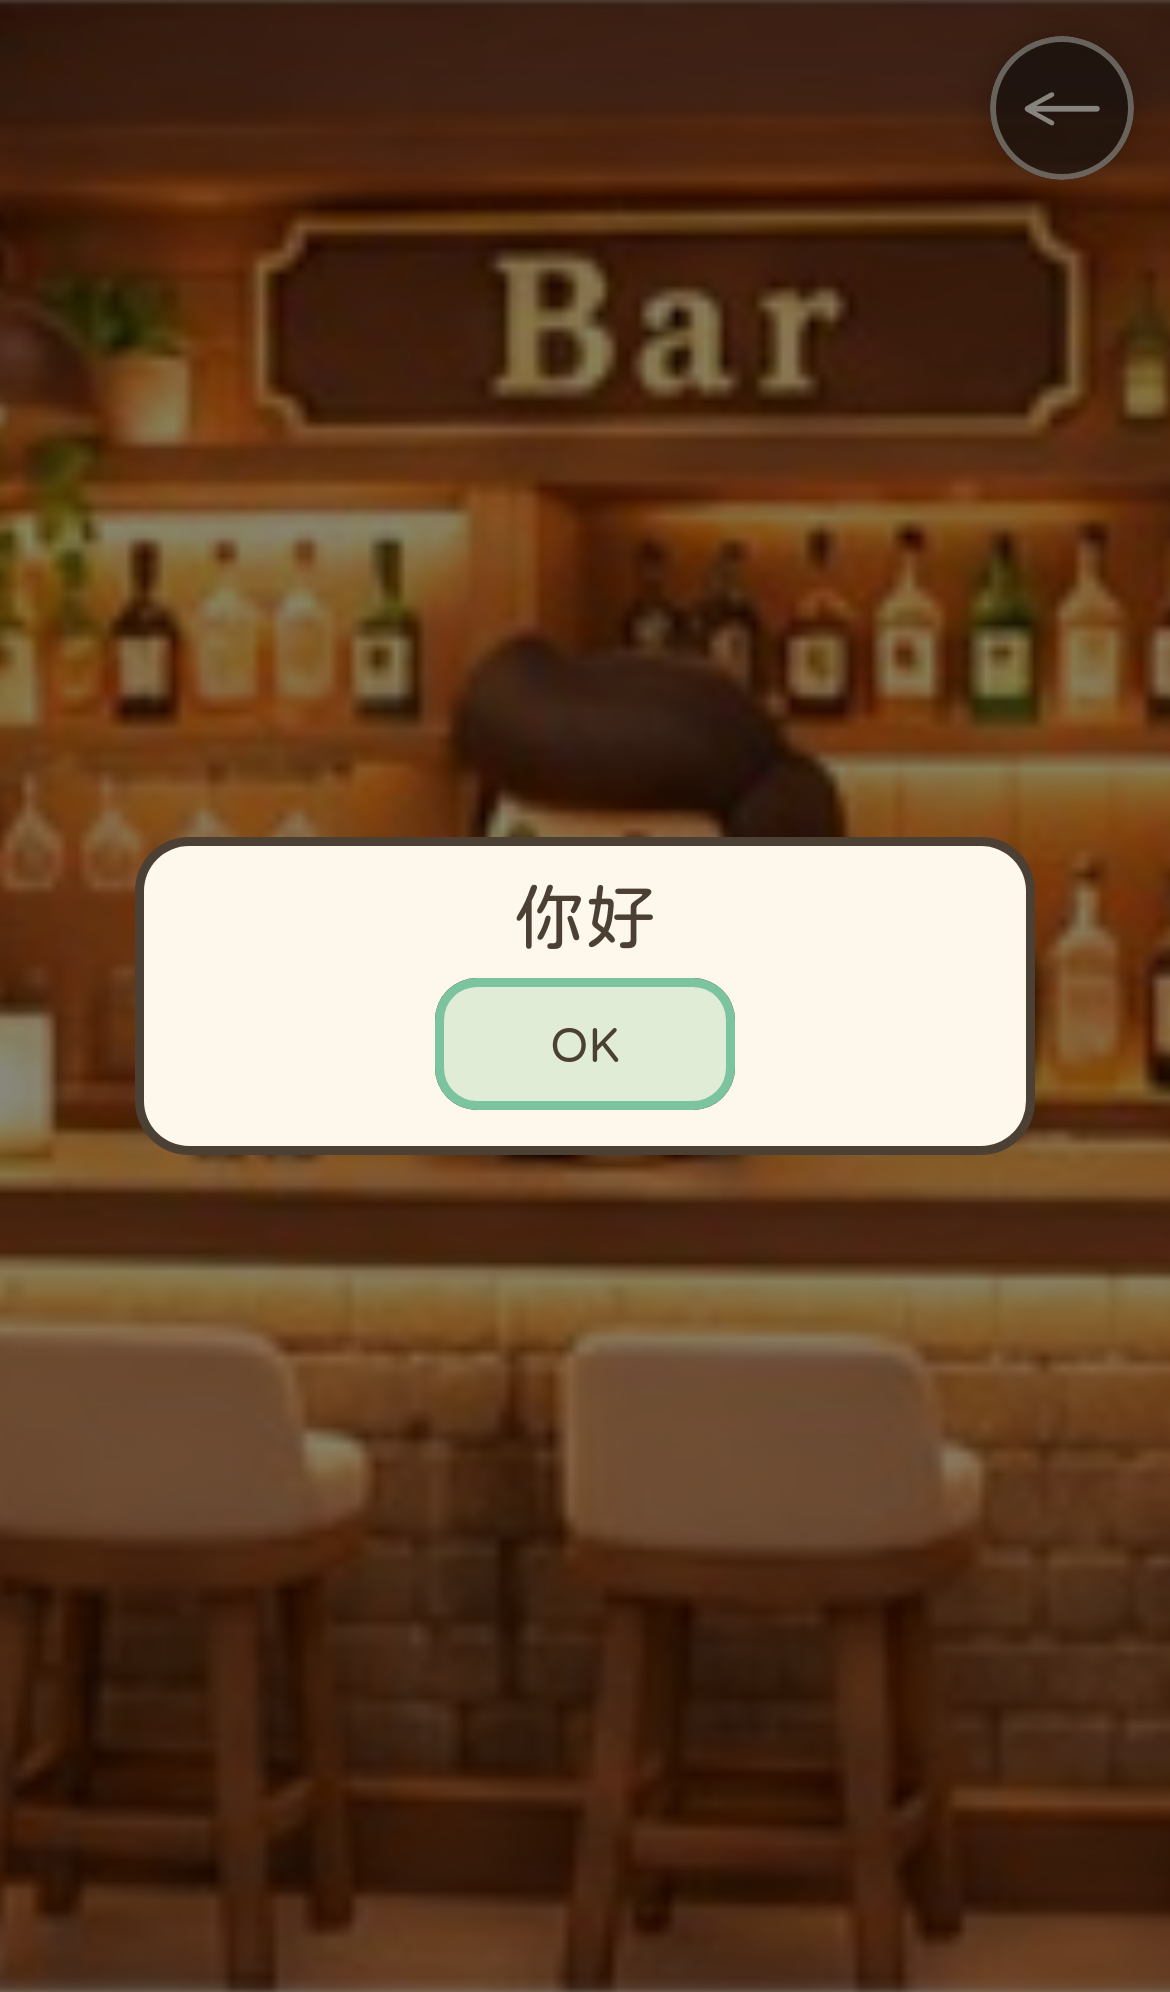
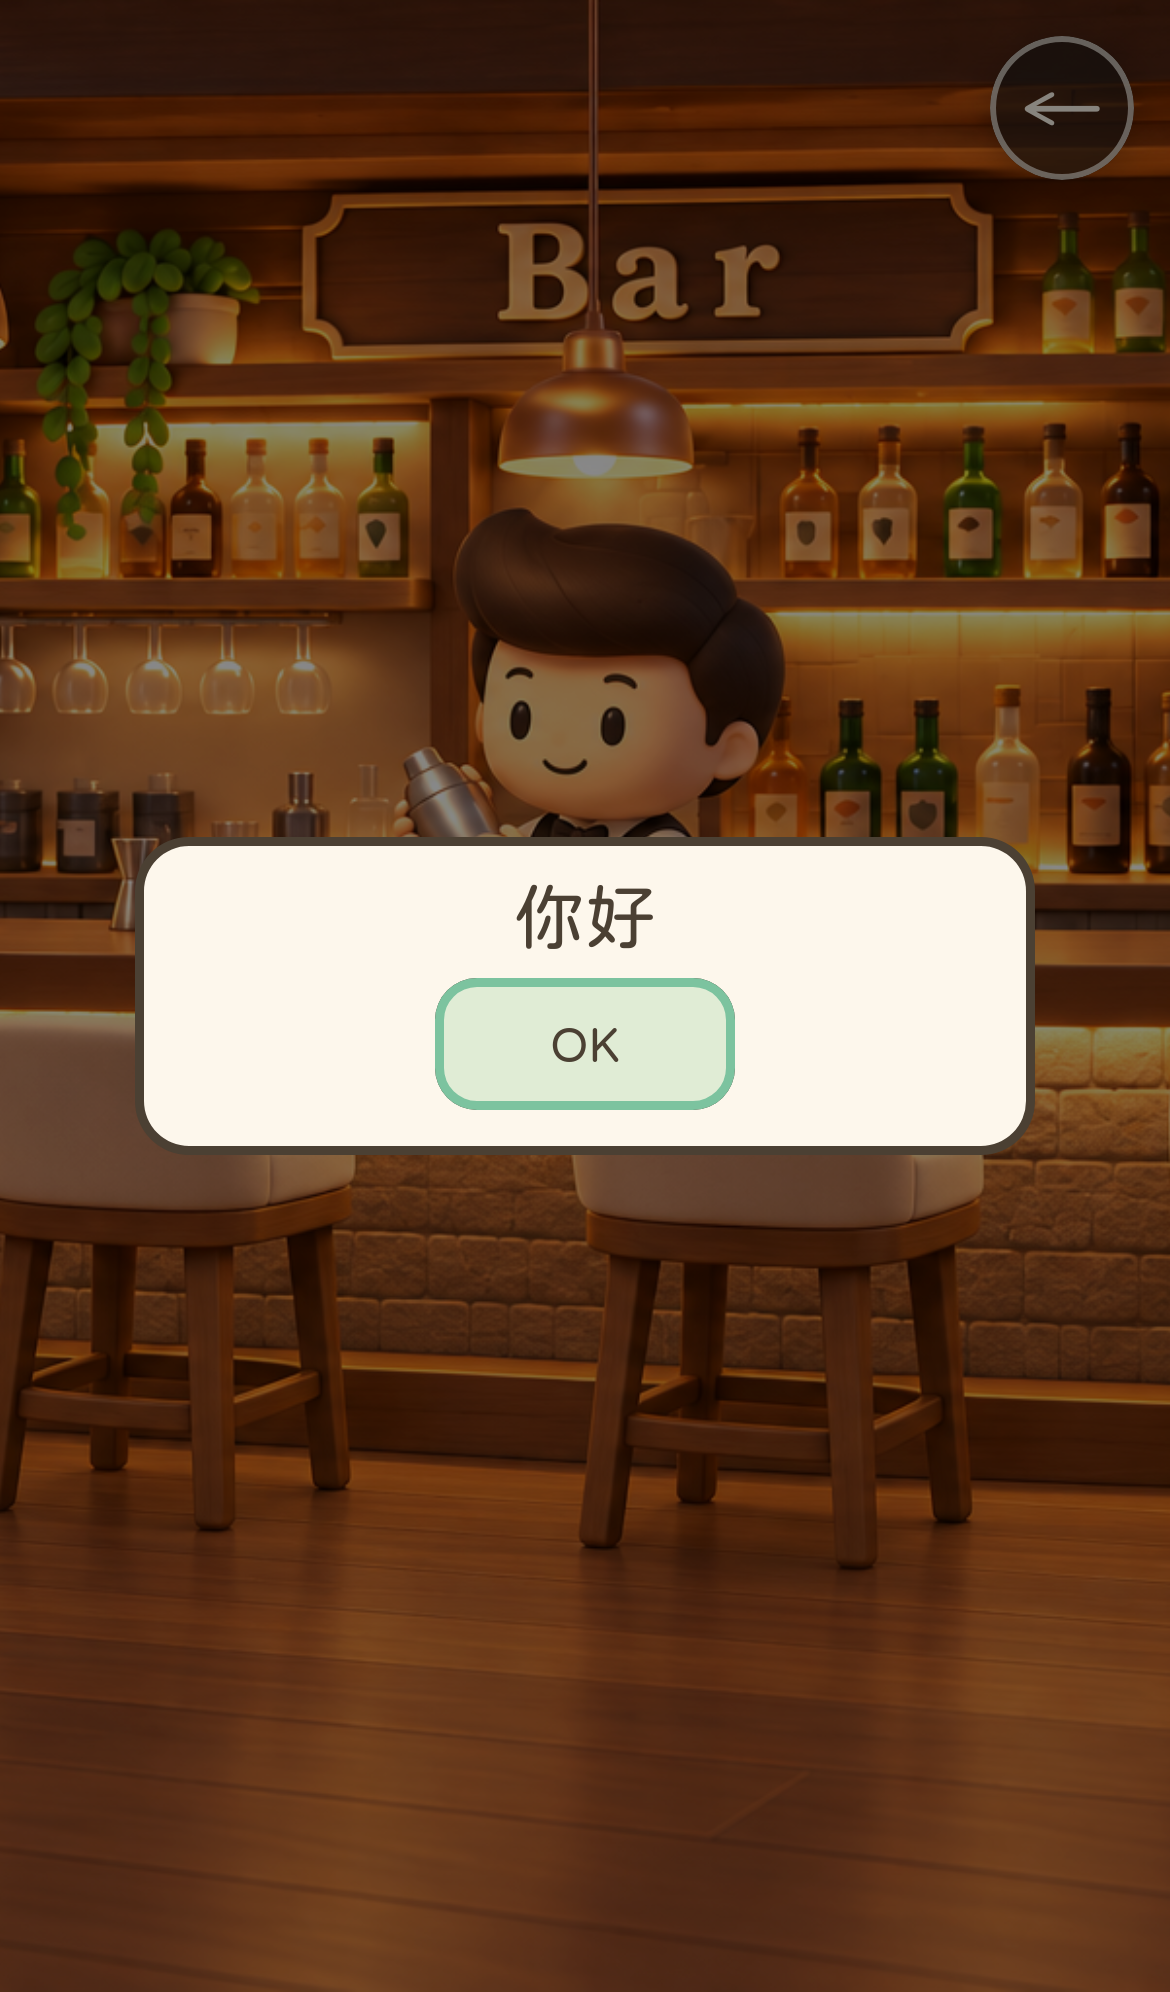
Replace blurry bar thumbnails with twelve high-resolution interiors (#36)

diff --git a/docs/visual/bar-interiors/gallery-v2.html b/docs/visual/bar-interiors/gallery-v2.html
@@ -1,0 +1,12 @@
+<!doctype html><meta charset="utf-8"><title>High-resolution bars</title><style>body{margin:0;background:#fdf7ec;font:15px system-ui;color:#4b4033}#gallery{display:grid;grid-template-columns:repeat(4,330px);gap:12px;padding:16px;width:max-content}figure{margin:0}img{display:block;width:330px;height:220px;object-fit:cover;border-radius:8px}figcaption{text-align:center;padding:6px}</style><div id="gallery"><figure><a href="../../../packages/client/public/images/bars/classic-warm-v2.webp"><img src="../../../packages/client/public/images/bars/classic-warm-v2.webp" alt="Wilson House"></a><figcaption>Wilson House</figcaption></figure>
+<figure><a href="../../../packages/client/public/images/bars/modern-gray-v2.webp"><img src="../../../packages/client/public/images/bars/modern-gray-v2.webp" alt="Engelbart House"></a><figcaption>Engelbart House</figcaption></figure>
+<figure><a href="../../../packages/client/public/images/bars/retro-brick-v2.webp"><img src="../../../packages/client/public/images/bars/retro-brick-v2.webp" alt="Moore House"></a><figcaption>Moore House</figcaption></figure>
+<figure><a href="../../../packages/client/public/images/bars/dark-gentleman-v2.webp"><img src="../../../packages/client/public/images/bars/dark-gentleman-v2.webp" alt="Berners-Lee House"></a><figcaption>Berners-Lee House</figcaption></figure>
+<figure><a href="../../../packages/client/public/images/bars/fresh-green-v2.webp"><img src="../../../packages/client/public/images/bars/fresh-green-v2.webp" alt="Hopper House"></a><figcaption>Hopper House</figcaption></figure>
+<figure><a href="../../../packages/client/public/images/bars/ocean-blue-v2.webp"><img src="../../../packages/client/public/images/bars/ocean-blue-v2.webp" alt="Dijkstra House"></a><figcaption>Dijkstra House</figcaption></figure>
+<figure><a href="../../../packages/client/public/images/bars/warm-ivory-v2.webp"><img src="../../../packages/client/public/images/bars/warm-ivory-v2.webp" alt="Huffman House"></a><figcaption>Huffman House</figcaption></figure>
+<figure><a href="../../../packages/client/public/images/bars/industrial-concrete-v2.webp"><img src="../../../packages/client/public/images/bars/industrial-concrete-v2.webp" alt="von Neumann House"></a><figcaption>von Neumann House</figcaption></figure>
+<figure><a href="../../../packages/client/public/images/bars/soft-pink-v2.webp"><img src="../../../packages/client/public/images/bars/soft-pink-v2.webp" alt="Turing House"></a><figcaption>Turing House</figcaption></figure>
+<figure><a href="../../../packages/client/public/images/bars/olive-green-v2.webp"><img src="../../../packages/client/public/images/bars/olive-green-v2.webp" alt="Hawkins House"></a><figcaption>Hawkins House</figcaption></figure>
+<figure><a href="../../../packages/client/public/images/bars/midnight-blue-v2.webp"><img src="../../../packages/client/public/images/bars/midnight-blue-v2.webp" alt="Cooper House"></a><figcaption>Cooper House</figcaption></figure>
+<figure><a href="../../../packages/client/public/images/bars/milk-tea-v2.webp"><img src="../../../packages/client/public/images/bars/milk-tea-v2.webp" alt="Shockley House"></a><figcaption>Shockley House</figcaption></figure></div>

diff --git a/packages/client/test/barInteriors.test.ts b/packages/client/test/barInteriors.test.ts
@@ -1,24 +1,37 @@
+import { readFileSync } from 'node:fs';
 import { describe, expect, it } from 'vitest';
-import { BAR_IMAGE, BAR_INTERIORS } from '../src/world/barInteriors.js';
+import { BAR_INTERIORS } from '../src/world/barInteriors.js';
 import { HOUSE_DATA } from '../src/world/buildingLayout.js';
 
+/** Read dimensions from the actual lossless WebP asset, not declared metadata. */
+function dimensions(bytes: Buffer): { width: number; height: number } {
+  expect(bytes.toString('ascii', 0, 4)).toBe('RIFF');
+  expect(bytes.toString('ascii', 8, 12)).toBe('WEBP');
+  for (let offset = 12; offset + 8 <= bytes.length;) {
+    const size = bytes.readUInt32LE(offset + 4);
+    if (bytes.toString('ascii', offset, offset + 4) === 'VP8L') {
+      expect(bytes[offset + 8]).toBe(0x2f);
+      const bits = bytes.readUInt32LE(offset + 9);
+      return { width: (bits & 0x3fff) + 1, height: ((bits >>> 14) & 0x3fff) + 1 };
+    }
+    offset += 8 + size + (size % 2);
+  }
+  throw new Error('Expected a native-resolution lossless WebP');
+}
+
 describe('bar interiors', () => {
-  it('assigns each current house a different reference panel in stable order', () => {
+  it('assigns each house a different standalone high-resolution image', () => {
     expect(BAR_INTERIORS.map(bar => bar.house)).toEqual(HOUSE_DATA.houses.map(h => h.name));
     expect(BAR_INTERIORS).toHaveLength(12);
-    expect(new Set(BAR_INTERIORS.map(bar => bar.viewBox)).size).toBe(12);
+    expect(new Set(BAR_INTERIORS.map(bar => bar.image)).size).toBe(12);
     expect(new Set(BAR_INTERIORS.map(bar => bar.style)).size).toBe(12);
-    expect(BAR_IMAGE).toBe('/images/bar-interiors-reference.jpg');
   });
-  it('keeps each image window inside the supplied image and excludes the sheet header', () => {
+  it('ships all twelve as full-size lossless images instead of thumbnail windows', () => {
     for (const bar of BAR_INTERIORS) {
-      const [x, y, width, height] = bar.viewBox.split(' ').map(Number);
-      expect(x!).toBeGreaterThanOrEqual(0);
-      expect(y!).toBeGreaterThan(40);
-      expect(width!).toBeGreaterThan(300);
-      expect(height!).toBeGreaterThan(200);
-      expect(x! + width!).toBeLessThanOrEqual(1280);
-      expect(y! + height!).toBeLessThanOrEqual(853);
+      const asset = readFileSync(new URL('../public' + bar.image, import.meta.url));
+      const size = dimensions(asset);
+      expect(size.width, bar.house).toBeGreaterThanOrEqual(1536);
+      expect(size.height, bar.house).toBeGreaterThanOrEqual(1024);
     }
   });
 });

diff --git a/packages/client/src/ui/barInterior.ts b/packages/client/src/ui/barInterior.ts
@@ -1,12 +1,11 @@
 import type { BuildingPlot } from '../world/buildingLayout.js';
-import { BAR_IMAGE, BAR_INTERIORS } from '../world/barInteriors.js';
+import { BAR_INTERIORS } from '../world/barInteriors.js';
 
 export class BarInterior {
   private readonly room = document.getElementById('bar-interior') as HTMLDialogElement;
   private readonly greeting = document.getElementById('bar-greeting') as HTMLDialogElement;
   private readonly scene = document.getElementById('bar-scene') as HTMLButtonElement;
-  private readonly picture = document.getElementById('bar-picture')!;
-  private readonly image = document.getElementById('bar-image')!;
+  private readonly picture = document.getElementById('bar-picture') as HTMLImageElement;
   private readonly exit = document.getElementById('bar-exit') as HTMLButtonElement;
   private readonly ok = document.getElementById('bar-ok') as HTMLButtonElement;
 
@@ -37,13 +36,9 @@ export class BarInterior {
     const bar = BAR_INTERIORS.find(item => item.house === house.name);
     if (!bar) return;
     this.room.setAttribute('aria-label', house.name + ' 的酒吧');
-    this.picture.setAttribute('viewBox', bar.viewBox);
-    const crop = document.getElementById('bar-crop-window')!;
-    const [x, y, width, height] = bar.viewBox.split(' ');
-    for (const [key, value] of Object.entries({ x, y, width, height })) crop.setAttribute(key, value!);
-    this.picture.setAttribute('aria-label', house.name + ' 的酒吧，' + bar.style);
-    // Fetch the shared image only when an interior is first entered.
-    this.image.setAttribute('href', BAR_IMAGE);
+    this.picture.alt = house.name + ' 的酒吧，' + bar.style;
+    // Load only the selected full-resolution asset, not a thumbnail sprite sheet.
+    this.picture.src = bar.image;
     this.handlers.onOpen();
     this.room.showModal();
     this.exit.focus({ preventScroll: true });

diff --git a/e2e/bar-interiors.spec.ts b/e2e/bar-interiors.spec.ts
@@ -20,7 +20,8 @@ for (const name of ['Wilson House', 'Shockley House']) test.describe('bar at ' +
     await expect(read).toBeVisible();
     expect((await enter.boundingBox())!.y).toBeGreaterThan((await read.boundingBox())!.y);
     const outside = await page.evaluate(() => window.__town!.position());
-    const loaded = page.waitForResponse(r => r.url().endsWith('/images/bar-interiors-reference.jpg'));
+    const expectedBar = BAR_INTERIORS.find(b => b.house === name)!;
+    const loaded = page.waitForResponse(r => r.url().endsWith(expectedBar.image));
     await enter.click();
     expect((await loaded).status()).toBe(200);
     const room = page.locator('#bar-interior');
@@ -32,8 +33,16 @@ for (const name of ['Wilson House', 'Shockley House']) test.describe('bar at ' +
     expect(full!.y).toBe(0);
     expect(full!.width).toBe(page.viewportSize()!.width);
     expect(full!.height).toBe(page.viewportSize()!.height);
-    await expect(page.locator('#bar-picture')).toHaveAttribute('preserveAspectRatio', 'xMidYMid slice');
-    await expect(page.locator('#bar-picture')).toHaveAttribute('viewBox', BAR_INTERIORS.find(b => b.house === name)!.viewBox);
+    const picture = page.locator('#bar-picture');
+    await expect(picture).toHaveAttribute('src', expectedBar.image);
+    await picture.evaluate(async el => { await (el as HTMLImageElement).decode(); });
+    const quality = await picture.evaluate(el => {
+      const image = el as HTMLImageElement;
+      return { width: image.naturalWidth, height: image.naturalHeight, fit: getComputedStyle(image).objectFit };
+    });
+    expect(quality.width).toBeGreaterThanOrEqual(1536);
+    expect(quality.height).toBeGreaterThanOrEqual(1024);
+    expect(quality.fit).toBe('cover');
     await page.keyboard.down('d');
     await page.waitForTimeout(200);
     await page.keyboard.up('d');

diff --git a/packages/client/src/world/barInteriors.ts b/packages/client/src/world/barInteriors.ts
@@ -5,14 +5,15 @@ const STYLES = [
   '清新綠植款', '海洋藍調款', '溫暖米白款', '工業水泥款',
   '粉彩柔和款', '橄欖綠款', '深藍夜色款', '奶茶木質款',
 ] as const;
-const COLUMNS = [[6, 312], [326, 312], [644, 312], [963, 311]] as const;
-const ROWS = [[44, 206], [298, 209], [556, 215]] as const;
+const IMAGES = [
+  'classic-warm', 'modern-gray', 'retro-brick', 'dark-gentleman',
+  'fresh-green', 'ocean-blue', 'warm-ivory', 'industrial-concrete',
+  'soft-pink', 'olive-green', 'midnight-blue', 'milk-tea',
+] as const;
 
-/** Display windows into the unchanged image supplied by the user. */
-export const BAR_INTERIORS = HOUSE_DATA.houses.map((house, index) => {
-  const [x, width] = COLUMNS[index % 4]!;
-  const [y, height] = ROWS[Math.floor(index / 4)]!;
-  return { house: house.name, style: STYLES[index]!, viewBox: `${x} ${y} ${width} ${height}` };
-});
-
-export const BAR_IMAGE = '/images/bar-interiors-reference.jpg';
+/** Each house uses an independently rendered full-resolution image. */
+export const BAR_INTERIORS = HOUSE_DATA.houses.map((house, index) => ({
+  house: house.name,
+  style: STYLES[index]!,
+  image: '/images/bars/' + IMAGES[index]! + '-v2.webp',
+}));

diff --git a/packages/client/index.html b/packages/client/index.html
@@ -74,10 +74,7 @@
         <button id="bar-exit" type="button" aria-label="返回戶外">←</button>
         <button id="bar-scene" type="button" aria-label="點擊酒吧" aria-haspopup="dialog"
           aria-controls="bar-greeting">
-          <svg id="bar-picture" role="img" xmlns="http://www.w3.org/2000/svg" preserveAspectRatio="xMidYMid slice">
-            <defs><clipPath id="bar-crop"><rect id="bar-crop-window" /></clipPath></defs>
-            <image id="bar-image" width="1280" height="853" clip-path="url(#bar-crop)" />
-          </svg>
+          <img id="bar-picture" alt="" decoding="async" draggable="false" />
         </button>
       </dialog>
       <dialog id="bar-greeting" class="bar-greeting" aria-labelledby="bar-greeting-text">

diff --git a/packages/client/src/ui/style.css b/packages/client/src/ui/style.css
@@ -940,7 +940,7 @@ body {
   cursor: pointer;
   touch-action: manipulation;
 }
-#bar-picture { display: block; width: 100%; height: 100%; overflow: hidden; }
+#bar-picture { display: block; width: 100%; height: 100%; object-fit: cover; object-position: center; }
 .bar-greeting {
   width: min(300px, calc(100% - 32px));
   max-height: 33dvh;

diff --git a/docs/visual/bar-interiors/README.md b/docs/visual/bar-interiors/README.md
@@ -1,13 +1,14 @@
 # Full-screen bar interiors
 
-2026-10-25 · branch: `codex/house-bar-interiors`
+2026-10-25 · branch: `codex/sharp-bar-assets`
 
 The front-row house actions now include **進入屋子** below **閱讀告示牌**.
-Each of the twelve houses opens its own panel from the user's twelve-style
-bar reference. The supplied JPG is included unchanged and fetched only when
-first entering an interior. Source attribution is recorded in ASSET_LICENSES.md.
+Each house loads its own separately rendered 1536 × 1024 bar image on entry.
+The previous 312 × 206 contact-sheet windows have been replaced; no thumbnail
+sheet or SVG crop remains in the runtime view. Source/provenance is recorded
+in ASSET_LICENSES.md.
 
-The image fills the complete game viewport edge to edge in portrait and
+The high-resolution image fills the complete game viewport edge to edge in portrait and
 landscape, preserving aspect ratio and cropping to cover. There is no header,
 house/style caption, instruction text or scene frame. Only a small safe-area
 return arrow floats over the image. House/style labels remain available to
@@ -24,17 +25,17 @@ Outdoor movement is paused; no room geometry or new server messages are added.
 ## Verification
 
 - Type checking, ESLint, 219 unit tests and production build passed.
-- **32 WebKit scenarios passed**, covering 2D/3D, two different house styles, all four iPhone/iPad
+- **16 high-resolution WebKit scenarios passed**, covering 2D/3D, two different house styles, all four iPhone/iPad
   orientations, exact viewport-edge coverage, absence of captions, greeting/OK,
   image loading, pause/resume, return focus and noticeboard compatibility.
-- Unit checks cover all twelve unique house/panel/style assignments and crop
-  bounds inside the supplied image.
+- Unit checks verify twelve unique house/image/style assignments and read the
+  physical dimensions from every shipped lossless WebP.
 - Existing large-bundle warning remains.
 
 Run `npm run build`, then:
 
 ```sh
-npx playwright test e2e/bar-interiors.spec.ts e2e/house-notices.spec.ts
+npx playwright test e2e/bar-interiors.spec.ts
 ```
 
 ![Portrait](portrait.png)
@@ -42,3 +43,25 @@ npx playwright test e2e/bar-interiors.spec.ts e2e/house-notices.spec.ts
 ![Landscape](landscape.png)
 
 ![Greeting](greeting.png)
+
+## High-resolution replacement
+
+The built-in image_gen tool produced twelve full-scene assets using the user's
+new quality reference. The base scene removes the embedded minigame dialog and
+cursor. Color edits retain the bartender and composition. Final prompts are in
+[prompts-v2.json](prompts-v2.json). This quality correction does not introduce a
+minigame or change the existing hello/OK interaction.
+
+Final runtime assets are in `packages/client/public/images/bars/`. Each is
+1536 × 1024 (about 24 times the original window's pixel count) and stored as
+lossless WebP without resizing or sharpening. A decoded-pixel comparison
+against each generated PNG passed. [assets-v2.json](assets-v2.json) records
+sizes, dimensions and hashes.
+
+The native `img` uses `object-fit: cover`. Updated browser tests decode the
+selected image and assert naturalWidth >= 1536, naturalHeight >= 1024, full
+viewport coverage and the correct house's independent image path. Unit tests
+read the actual lossless WebP headers of all twelve files, so a future
+thumbnail substitution cannot pass by changing metadata alone.
+
+[All twelve full-resolution assets](gallery-v2.html) · [Generation prompts](prompts-v2.json)

diff --git a/ASSET_LICENSES.md b/ASSET_LICENSES.md
@@ -6,7 +6,7 @@ No external asset websites are used.
 ## Graphics
 
 **Outdoor game graphics are drawn in code** — Phaser `Graphics` primitives and, where
-relevant, `generateTexture()`. The bar-interior illustration below is the sole bundled raster artwork.
+relevant, `generateTexture()`. The bar-interior images below are the bundled raster artwork.
 
 The optional 3D view (`?view=3d`) follows the same rule: every mesh is built
 from three.js primitive geometry (boxes, cylinders, spheres, icosahedra) or
@@ -16,12 +16,19 @@ displays the user-supplied illustration listed below.
 
 ## Bar interiors
 
-`packages/client/public/images/bar-interiors-reference.jpg` is the twelve-panel
-bar reference image supplied by the user in this conversation for the requested
-house interiors. It is included unchanged. SVG view windows display one panel
-per house; no external artwork or additional image generation is involved.
-This records the user-provided source and requested use, not a claim that the
-image has an open-source license.
+The twelve `packages/client/public/images/bars/*-v2.webp` images were generated
+for this project using the built-in OpenAI image_gen tool on 2026-10-25, using
+the user's supplied bar scene as a design/quality reference. Each is a separate
+1536 × 1024 scene; the original thumbnail contact sheet is no longer shipped.
+
+The base prompt removes the reference's dialog/buttons/cursor. Eleven color
+edits preserve the same bartender, layout and framing. The exact prompt set is
+recorded in `docs/visual/bar-interiors/prompts-v2.json`.
+
+Generated PNGs were encoded as **lossless WebP without resizing**. Every
+decoded pixel was compared with its generated PNG source and matched exactly.
+Dimensions, encoded sizes and file hashes are recorded in
+`docs/visual/bar-interiors/assets-v2.json`.
 
 ## The map outline
 
